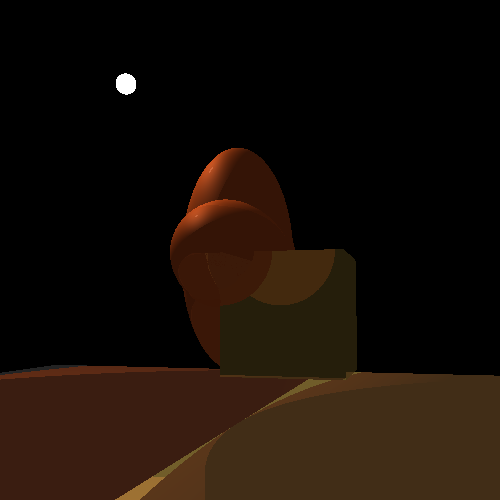
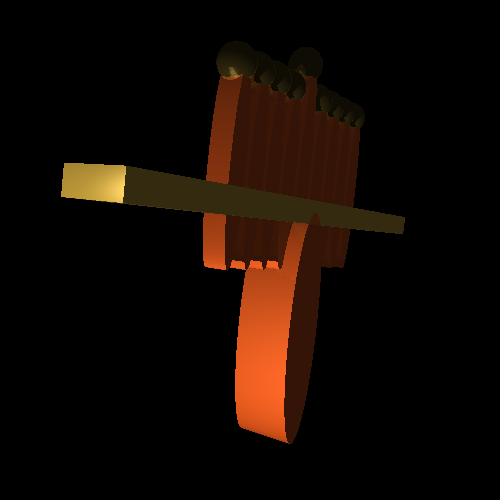
menorah

diff --git a/main_simple.py b/main_simple.py
@@ -84,60 +84,60 @@ def init_scene():
     # Create objects and add them to the scene
 
     # Create and add a sphere
-    mat = Material()
-    mat.set_copper()
-    mat.set_reflectivity(0.1)
-    ball = SphereObj()
-    ball.set_material(mat)
-    ball.translate(0,1,0)
-    ball.scale(1, 2, 1)
-    ball.name = "Ball 1"
-    scn.add_object(ball)
+    # mat = Material()
+    # mat.set_copper()
+    # mat.set_reflectivity(0.1)
+    # ball = SphereObj()
+    # ball.set_material(mat)
+    # ball.translate(0,1,0)
+    # ball.scale(1, 2, 1)
+    # ball.name = "Ball 1"
+    # scn.add_object(ball)
 
     # Create and add a cylinder
-    mat = Material()
-    mat.set_copper()
-    mat.set_reflectivity(0.1)
-    cyl = CylinderObj()
-    cyl.set_material(mat)
-    cyl.translate(0,1,0)
-    cyl.rotate(90,Vector3(1,0,0))
-    cyl.scale(1, 2, 1)
-    cyl.name = "Cylinder 1"
-    scn.add_object(cyl)
+    # mat = Material()
+    # mat.set_copper()
+    # mat.set_reflectivity(0.1)
+    # cyl = CylinderObj()
+    # cyl.set_material(mat)
+    # cyl.translate(0,1,0)
+    # cyl.rotate(90,Vector3(1,0,0))
+    # cyl.scale(1, 2, 1)
+    # cyl.name = "Cylinder 1"
+    # scn.add_object(cyl)
 
-    mat = Material()
-    mat.set_silver()
-    mat.set_reflectivity(0.8)
-    floor = BoxObj()
-    floor.name = "Floor"
-    floor.set_material(mat)
-    floor.translate(0, -2, 0)
-    floor.scale(10, 0.1, 10)
-    scn.add_object(floor)
+    # mat = Material()
+    # mat.set_silver()
+    # mat.set_reflectivity(0.8)
+    # floor = BoxObj()
+    # floor.name = "Floor"
+    # floor.set_material(mat)
+    # floor.translate(0, -2, 0)
+    # floor.scale(10, 0.1, 10)
+    # scn.add_object(floor)
 
     # Create and add a cylinder
-    mat = Material()
-    mat.set_copper()
-    mat.set_reflectivity(0.1)
-    cyl = CylinderObj()
-    cyl.set_material(mat)
-    cyl.translate(0, 1, 0)
-    cyl.rotate(90, Vector3(1, 0, 0))
-    cyl.scale(1, 2, 1)
-    cyl.name = "Cylinder 1"
-    scn.add_object(cyl)
+    # mat = Material()
+    # mat.set_copper()
+    # mat.set_reflectivity(0.1)
+    # cyl = CylinderObj()
+    # cyl.set_material(mat)
+    # cyl.translate(0, 1, 0)
+    # cyl.rotate(90, Vector3(1, 0, 0))
+    # cyl.scale(1, 2, 1)
+    # cyl.name = "Cylinder 1"
+    # scn.add_object(cyl)
 
     # Create and add a cube
-    mat = Material()
-    mat.set_gold()
-    mat.set_reflectivity(0.5)
-    cube = BoxObj()
-    cube.name = "Minecraft"
-    cube.set_material(mat)
-    cube.translate(1, 0, 0)  # Position the cube
-    cube.scale(1, 1, 1)      # Standard unit cube
-    scn.add_object(cube)
+    # mat = Material()
+    # mat.set_gold()
+    # mat.set_reflectivity(0.5)
+    # cube = BoxObj()
+    # cube.name = "Minecraft"
+    # cube.set_material(mat)
+    # cube.translate(1, 0, 0)  # Position the cube
+    # cube.scale(1, 1, 1)      # Standard unit cube
+    # scn.add_object(cube)
 
     # Light setup
     lightA = Light()
@@ -243,6 +243,60 @@ def handle_events():
                 nav.keyboard(event.key)
     return True
 
+def add_menorah_to_scene():
+    # Base of the Menorah (vertical stand)
+    mat = Material()
+    mat.set_copper()
+    mat.set_reflectivity(0.1)
+    base = CylinderObj()
+    base.set_material(mat)
+    base.translate(0, 1, 0)  # Center position
+    base.scale(0.5, 2, 0.5)  # Thinner, taller cylinder for the base
+    base.name = "Menorah Base"
+    scn.add_object(base)
+
+    # Horizontal bar of the Menorah
+    mat = Material()
+    mat.set_gold()
+    mat.set_reflectivity(0.3)
+    horizontal_bar = BoxObj()
+    horizontal_bar.set_material(mat)
+    horizontal_bar.translate(0, 3, 0)  # Positioned above the base
+    horizontal_bar.scale(4.5, 0.2, 0.5)  # Long, thin bar
+    horizontal_bar.name = "Menorah Horizontal Bar"
+    scn.add_object(horizontal_bar)
+
+    # Candles and flames on the Menorah
+    for i in range(9):  # Nine candles
+        # Candle material
+        mat = Material()
+        mat.set_copper()
+        mat.set_reflectivity(0.1)
+
+        # Candle stick (Cylinder)
+        candle = CylinderObj()
+        candle.set_material(mat)
+        candle_height = 1.5 if i != 4 else 2  # Center candle is taller
+        x_offset = -2 + i * 0.5  # Space candles evenly across the bar
+        candle.translate(x_offset, 3.5, 0)  # Position on the horizontal bar
+        candle.scale(0.2, candle_height, 0.2)  # Thin, tall cylinders
+        candle.name = f"Menorah Candle {i+1}"
+        scn.add_object(candle)
+
+        # Flame material
+        mat = Material()
+        mat.set_gold()
+        mat.set_reflectivity(0.8)
+
+        # Flame (Sphere)
+        flame = SphereObj()
+        flame.set_material(mat)
+        flame.translate(x_offset, 3.5 + candle_height, 0)  # Above the candle
+        flame.scale(0.3, 0.3, 0.3)  # Small flame spheres
+        flame.name = f"Menorah Flame {i+1}"
+        scn.add_object(flame)
+
+
 def main():
     global light_angle, light_distance, lightA, render_mode, animate
     win.initialize()
@@ -250,6 +304,8 @@ def main():
 
     clock = pygame.time.Clock()
     running = True
+
+    add_menorah_to_scene()
 
     # Set up lighting and depth-test
     glEnable(GL_LIGHTING)
